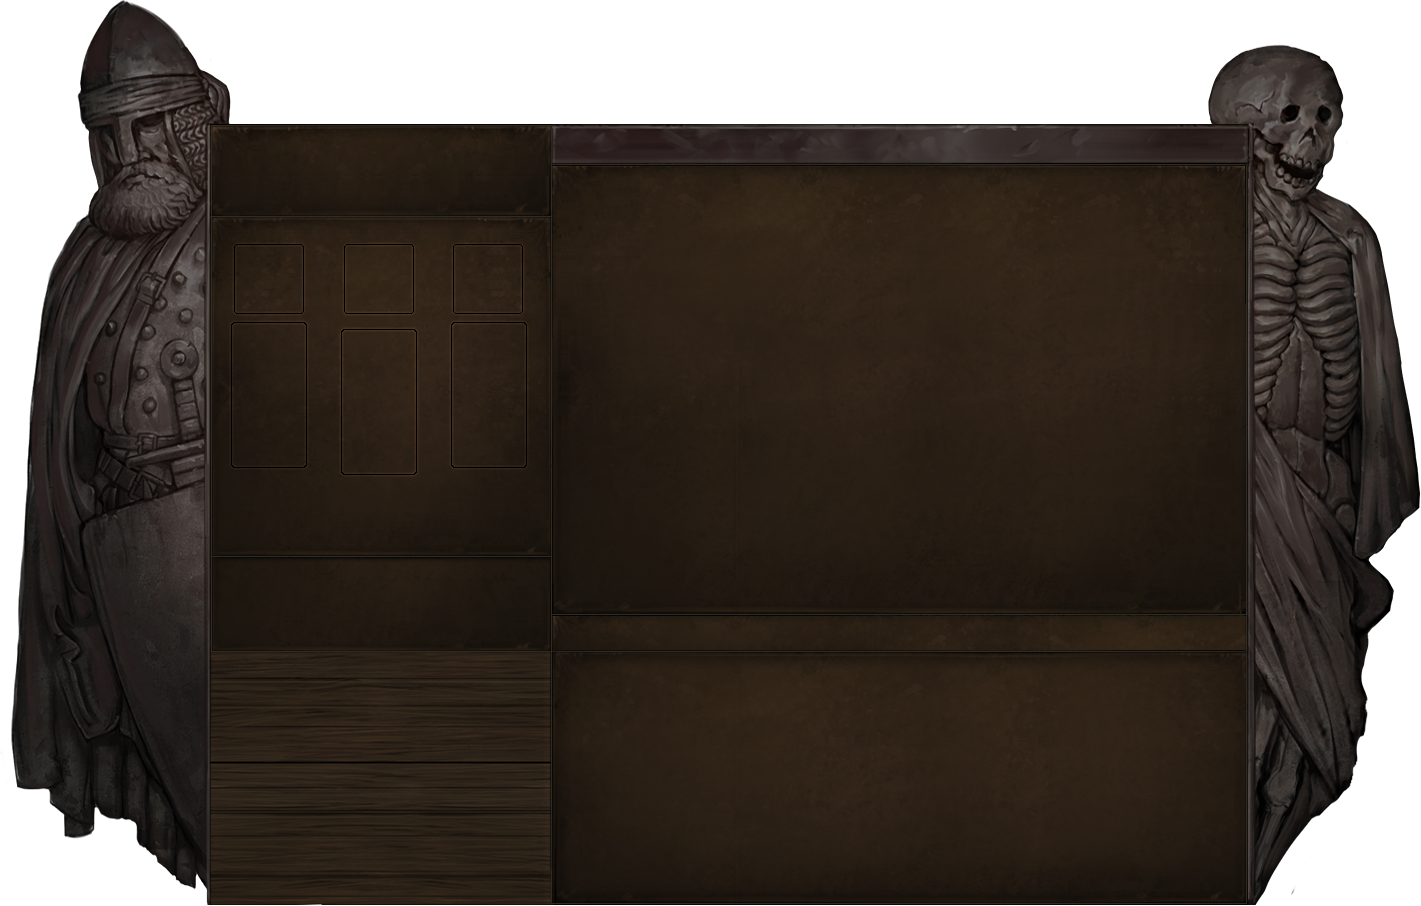
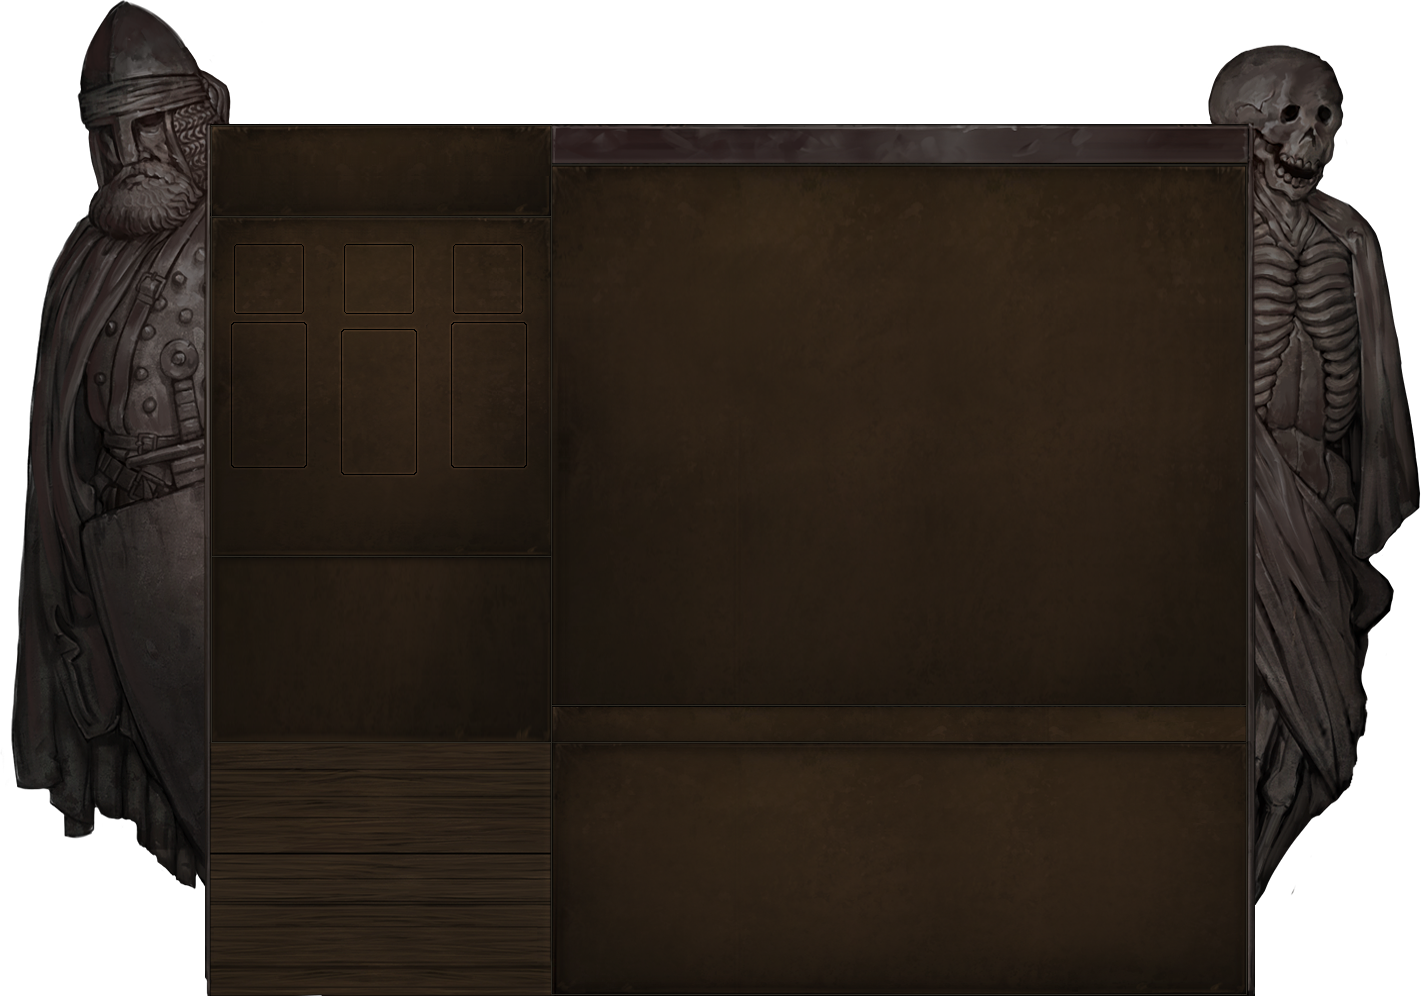
inventory expansion

diff --git a/ui/screens/character/character_screen.css b/ui/screens/character/character_screen.css
@@ -29,7 +29,7 @@
 .character-screen .character-screen-statuetes
 {
     width: 142.1rem;
-	height: 90.6rem;
+	height: 99.7rem;
 
 	/*left: -22.0rem;
 	right: 21.5rem;
@@ -46,7 +46,7 @@
 	margin: auto;
 
     background-image: url("coui://gfx/ui/skin/background_inventory.png");
-    background-size: 142.1rem 90.6rem;
+    background-size: 142.1rem 99.7rem;
     background-repeat: no-repeat;
 }
 
@@ -63,7 +63,7 @@
 	right: 17.6rem;
 
 	width: 103.9rem;
-	height: 78.2rem;
+	height: 87.3rem;
 
 	position: absolute;
 

diff --git a/ui/screens/character/modules/character_screen_left_panel/character_screen_stats_module.css b/ui/screens/character/modules/character_screen_left_panel/character_screen_stats_module.css
@@ -12,7 +12,7 @@
 .character-screen-container .stats-module
 {
 	width: 100%;
-    height: 32.5%; /* AUTO HEIGHT */
+    height: 29.53%; /* AUTO HEIGHT */
 
     position: absolute;
     bottom: 0.0rem;

diff --git a/ui/screens/character/modules/character_screen_right_panel/character_screen_inventory_list_module.css b/ui/screens/character/modules/character_screen_right_panel/character_screen_inventory_list_module.css
@@ -29,7 +29,7 @@
 	position: absolute;
 	margin-right: 0.2rem;
 
-	height: 44.4rem;
+	height: 53.5rem;
 
 	/*background-image: url("coui://gfx/ui/skin/raster.png");
 	background-repeat: no-repeat;

diff --git a/ui/screens/character/modules/character_screen_left_panel/character_screen_skills_module.css b/ui/screens/character/modules/character_screen_left_panel/character_screen_skills_module.css
@@ -12,7 +12,7 @@
 .character-screen-container .skills-module
 {
 	width: 97.5%;
-	height: 9.2rem;
+	height: 17.6rem;
     position: relative;
     /*height: 12.5%;*/  /* AUTO HEIGHT */
 

diff --git a/ui/screens/character/modules/character_screen_right_panel/character_screen_right_panel_module.css b/ui/screens/character/modules/character_screen_right_panel/character_screen_right_panel_module.css
@@ -13,7 +13,7 @@
 .character-screen-container .right-panel-module
 {
 	width: 100%;
-	height: 51.6rem;
+	height: 60.7rem;
 	position: relative;
 	float: left;
 }
